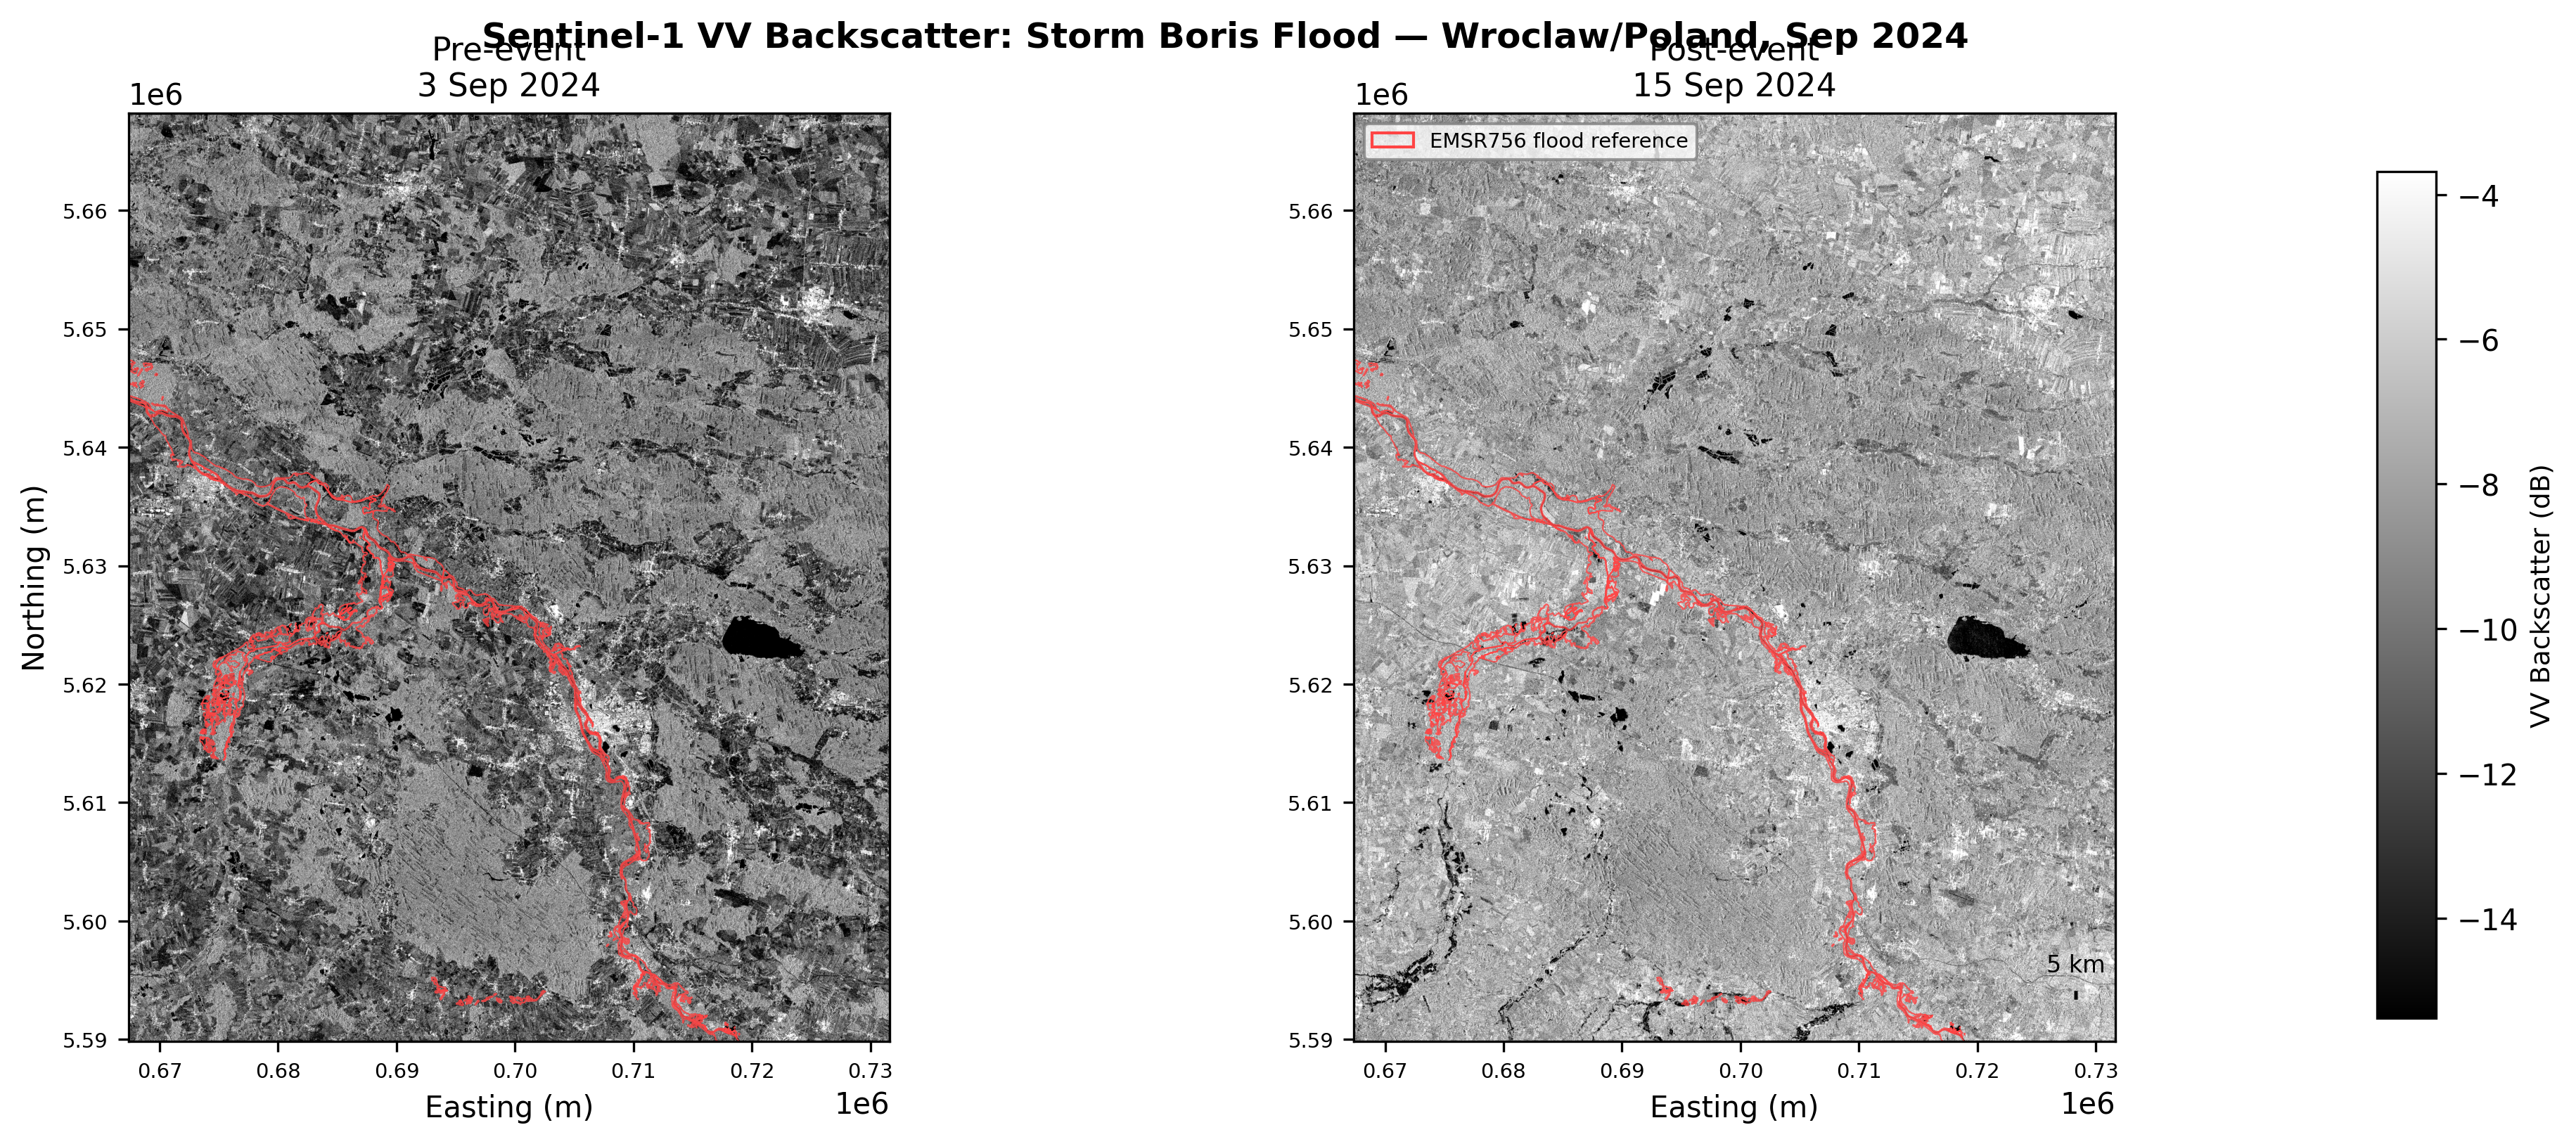
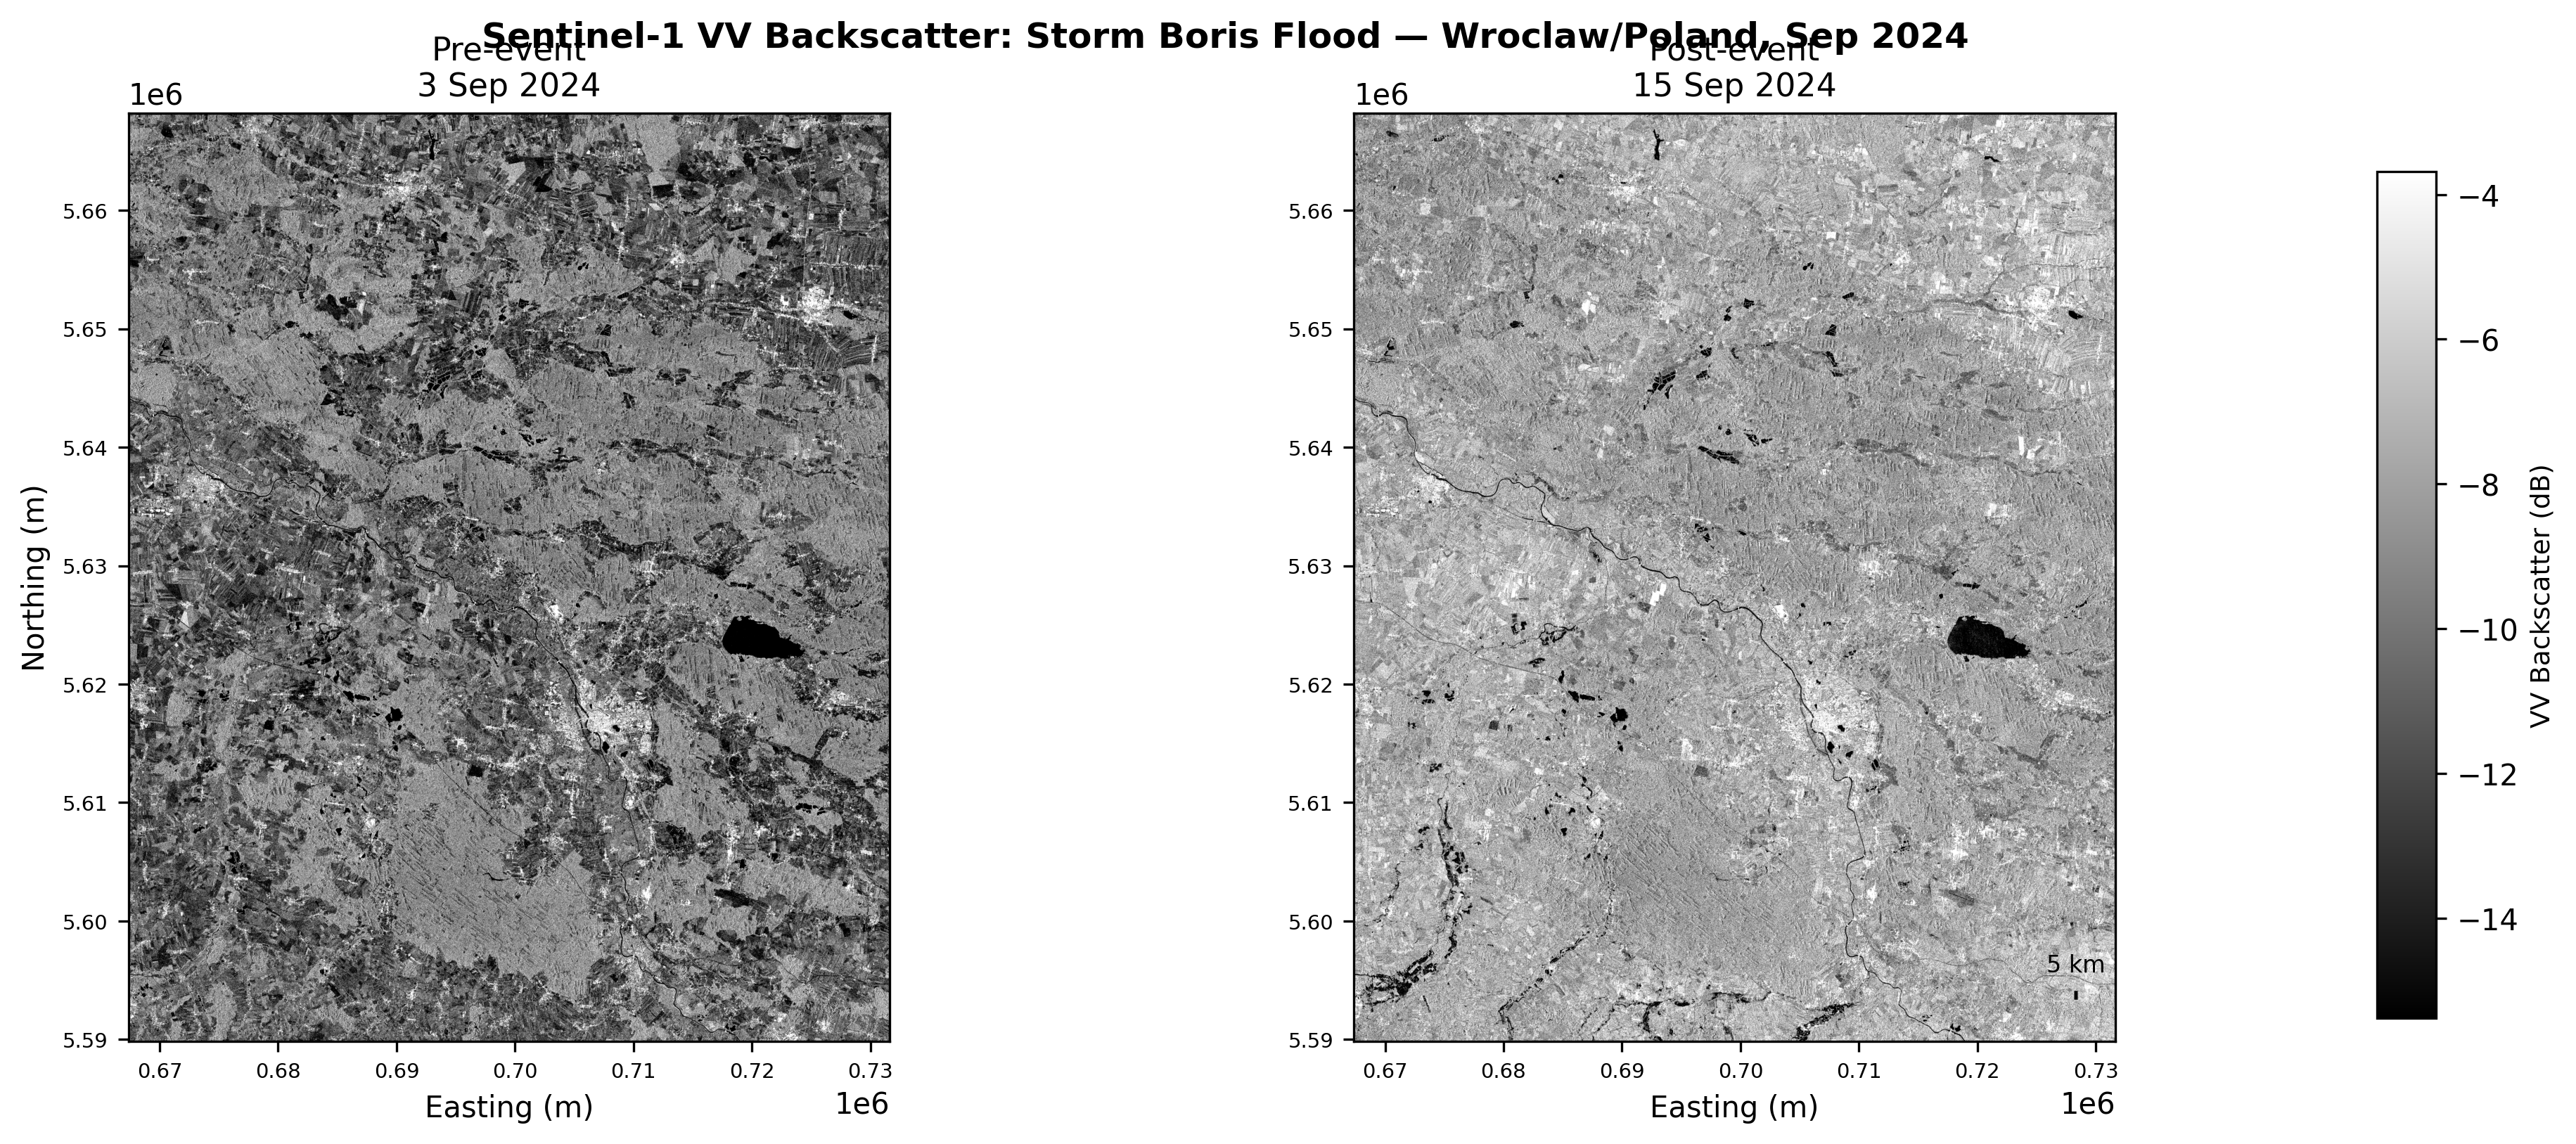
clearning imgaes for wroclaw

diff --git a/wroclaw/scripts/make_figures.py b/wroclaw/scripts/make_figures.py
@@ -158,11 +158,6 @@ def main():
     ]:
         ext = extent_from(t, data.shape)
         im = ax.imshow(data, cmap="gray", vmin=vmin, vmax=vmax, extent=ext, origin="upper")
-        for geom in ref_for_overlay.geometry:
-            coords = ([geom] if geom.geom_type == "Polygon"
-                      else list(geom.geoms))
-            for p in coords:
-                ax.plot(*p.exterior.xy, color="#FF4444", lw=0.5, alpha=0.8)
         ax.set_title(f"{title}\n{date}", fontsize=11)
         ax.set_xlabel("Easting (m)")
         ax.tick_params(labelsize=7)
@@ -173,10 +168,6 @@ def main():
     for ax in axes:
         ax.set_xlim(display_xmin, display_xmax)
         ax.set_ylim(display_ymin, display_ymax)
-    patch = mpatches.Patch(edgecolor="#FF4444", facecolor="none",
-                            label="EMSR756 flood reference")
-    axes[1].legend(handles=[patch], loc="upper left", fontsize=7,
-                   framealpha=0.8, edgecolor="gray")
     add_scalebar(axes[1], post_t, length_km=5)
     plt.subplots_adjust(right=0.87, wspace=0.05, top=0.90, bottom=0.10, left=0.06)
     cbar_ax = fig.add_axes([0.89, 0.12, 0.02, 0.73])
@@ -190,10 +181,6 @@ def main():
     chg_ext = extent_from(chg_t, chg_vv.shape)
     im = ax.imshow(chg_vv, cmap="RdBu_r", vmin=-10, vmax=10,
                    extent=chg_ext, origin="upper")
-    for geom in ref_for_overlay.geometry:
-        coords = ([geom] if geom.geom_type == "Polygon" else list(geom.geoms))
-        for p in coords:
-            ax.plot(*p.exterior.xy, color="lime", lw=0.8, alpha=0.9)
     ax.set_title("VV Backscatter Change (Post − Pre)\nStorm Boris Flood — Wroclaw, Sep 2024",
                  fontsize=12, fontweight="bold")
     ax.set_xlabel("Easting (m)")
@@ -202,10 +189,6 @@ def main():
     ax.tick_params(labelsize=8)
     cbar = fig.colorbar(im, ax=ax, shrink=0.85)
     cbar.set_label("ΔVV (dB)  ← decrease  |  increase →", fontsize=9)
-    ref_patch = mpatches.Patch(edgecolor="lime", facecolor="none",
-                                label="EMSR756 flood reference")
-    ax.legend(handles=[ref_patch], loc="upper left", fontsize=8,
-              framealpha=0.8, edgecolor="gray")
     ax.set_xlim(display_xmin, display_xmax)
     ax.set_ylim(display_ymin, display_ymax)
     add_scalebar(ax, chg_t, length_km=5)

diff --git a/README.md b/README.md
@@ -8,11 +8,11 @@ A Sentinel-1 SAR flood mapping pipeline applied to three contrasting flood event
 
 | Case Study | Event | Date | Best IoU | Status |
 |---|---|---|---|---|
-| [Emilia-Romagna](emilia_romagna/) | Italy — Faenza/Forlì floods | May 2023 | **0.127** (recession) | Complete |
+| [Emilia-Romagna](emilia_romagna/) | Italy — Faenza/Forlì floods | May 2023 | **0.123** (recession) | Complete |
 | [Wroclaw](wroclaw/) | Poland — Storm Boris | Sep 2024 | **0.029** (maximum extent) | Complete |
 | [Jacobabad](jacobabad/) | Pakistan — monsoon mega-flood | Jul–Aug 2022 | **0.370** (peak) | Complete |
 
-The three events span the full performance range for SAR change-detection flood mapping — from the physically inverted Wroclaw case (signal mechanism wrong, IoU 0.029) through Italy's soil moisture confound (IoU 0.057 peak / 0.127 recession) to Jacobabad's best-case arid open-water scenario (IoU 0.370).
+The three events span the full performance range for SAR change-detection flood mapping — from the physically inverted Wroclaw case (signal mechanism wrong, IoU 0.029) through Italy's soil moisture confound (IoU 0.053 peak / 0.123 recession) to Jacobabad's best-case arid open-water scenario (IoU 0.370).
 
 ---
 
@@ -66,7 +66,7 @@ Masking applied before classification:
 
 | Case Study | Mode | Threshold | Best IoU | Precision | Recall | F1 | Detected | Reference |
 |---|---|---|---|---|---|---|---|---|
-| Emilia-Romagna | combined_magnitude | 8.834 dB | 0.127 (recession) | 0.211 | 0.240 | 0.225 | 12,674 ha | 11,212 ha |
+| Emilia-Romagna | combined_magnitude | 8.834 dB | 0.123 (recession) | 0.200 | 0.241 | 0.219 | 12,917 ha | 11,212 ha |
 | Wroclaw | combined_magnitude | 2.931 dB | 0.029 (maximum) | 0.029 | 0.810 | 0.056 | 534,863 ha | 20,161 ha |
 | Jacobabad | directional_decrease | 7.807 dB | 0.370 (peak) | 0.414 | 0.777 | 0.540 | 94,350 ha | 50,185 ha |
 
@@ -77,10 +77,10 @@ Performance is fundamentally determined by how physically distinct the flood SAR
 | Case | Pre-event soil | Mean ΔVV inside flood | Mean ΔVV outside | Separation | IoU |
 |---|---|---|---|---|---|
 | Jacobabad | Arid (dry pre-monsoon) | −9.45 dB | −4.18 dB | **−5.27 dB** | 0.370 |
-| Emilia-Romagna | Wet (preceding rain) | −1.36 dB | −0.68 dB | **0.68 dB** | 0.057 (peak) / 0.127 (recession) |
+| Emilia-Romagna | Wet (preceding rain) | −1.36 dB | −0.68 dB | **0.68 dB** | 0.053 (peak) / 0.123 (recession) |
 | Wroclaw | Very wet (Aug 2024) | **+1.17 dB** (double-bounce) | +1.57 dB (agriculture) | **−0.40 dB** | 0.029 |
 
-Jacobabad confirms the hypothesis: arid pre-event conditions with correct-direction specular signal produce 3–6× higher IoU than the European cases (0.370 vs 0.127 for Italy recession, vs 0.029 for Wroclaw). The −5.27 dB separation is an order of magnitude stronger than either European case. Wroclaw is a degenerate case — the flood inundated standing September crops, producing flooded-vegetation double-bounce (VV increases), while agricultural harvest adds an even larger change signal across the background.
+Jacobabad confirms the hypothesis: arid pre-event conditions with correct-direction specular signal produce 3–13× higher IoU than the European cases (0.370 vs 0.123 for Italy recession, vs 0.029 for Wroclaw). The −5.27 dB separation is an order of magnitude stronger than either European case. Wroclaw is a degenerate case — the flood inundated standing September crops, producing flooded-vegetation double-bounce (VV increases), while agricultural harvest adds an even larger change signal across the background.
 
 ---
 

diff --git a/emilia_romagna/README.md b/emilia_romagna/README.md
@@ -81,8 +81,8 @@ False positives (red) spread across agricultural fields are wet soil misclassifi
 
 | Reference | IoU | Precision | Recall | F1 | Detected | Reference area |
 |---|---|---|---|---|---|---|
-| Peak flood (DEL_PRODUCT) | 0.057 | 0.090 | 0.133 | 0.107 | 12,674 ha | 8,798 ha |
-| **Recession (DEL_MONIT01)** | **0.127** | **0.211** | **0.240** | **0.225** | 12,674 ha | 11,212 ha |
+| Peak flood (DEL_PRODUCT) | 0.053 | 0.082 | 0.131 | 0.101 | 12,917 ha | 8,798 ha |
+| **Recession (DEL_MONIT01)** | **0.123** | **0.200** | **0.241** | **0.219** | 12,917 ha | 11,212 ha |
 
 ---
 
@@ -94,9 +94,9 @@ False positives (red) spread across agricultural fields are wet soil misclassifi
 
 *Figure 4: IoU, precision, and recall vs threshold (left); final metrics at 8.834 dB (right).*
 
-IoU peaks at 0.057 and the curve is broad and low across the full sweep — no threshold achieves clean separation. With only 0.68 dB signal separation, precision and recall cannot both be high simultaneously. The flat, low curve is diagnostic of overlapping pixel distributions rather than a tuning problem.
+IoU peaks at 0.053 and the curve is broad and low across the full sweep — no threshold achieves clean separation. With only 0.68 dB signal separation, precision and recall cannot both be high simultaneously. The flat, low curve is diagnostic of overlapping pixel distributions rather than a tuning problem.
 
-The higher recession IoU (0.127) confirms the hypothesis: persistent standing water after rainfall drains is more specularly distinct from background, making it easier to detect than the immediate flood peak.
+The higher recession IoU (0.123) confirms the hypothesis: persistent standing water after rainfall drains is more specularly distinct from background, making it easier to detect than the immediate flood peak.
 
 ---
 